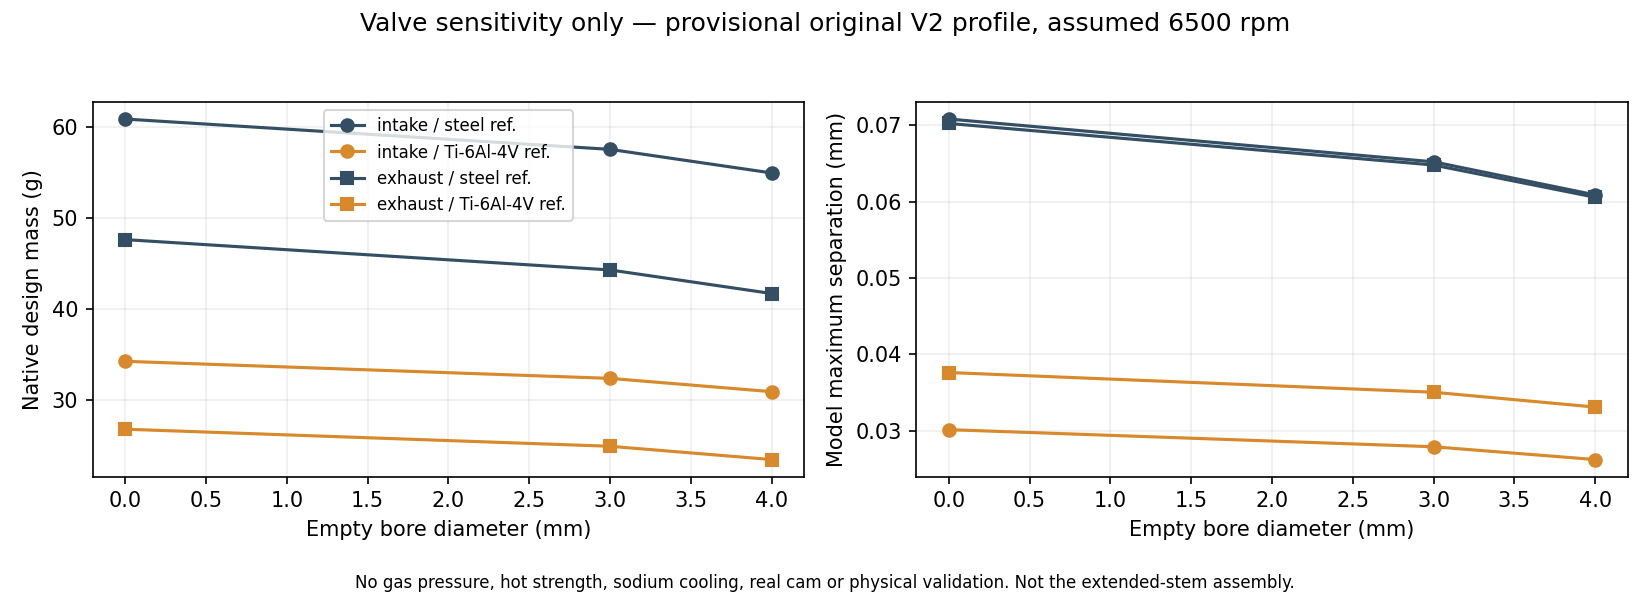
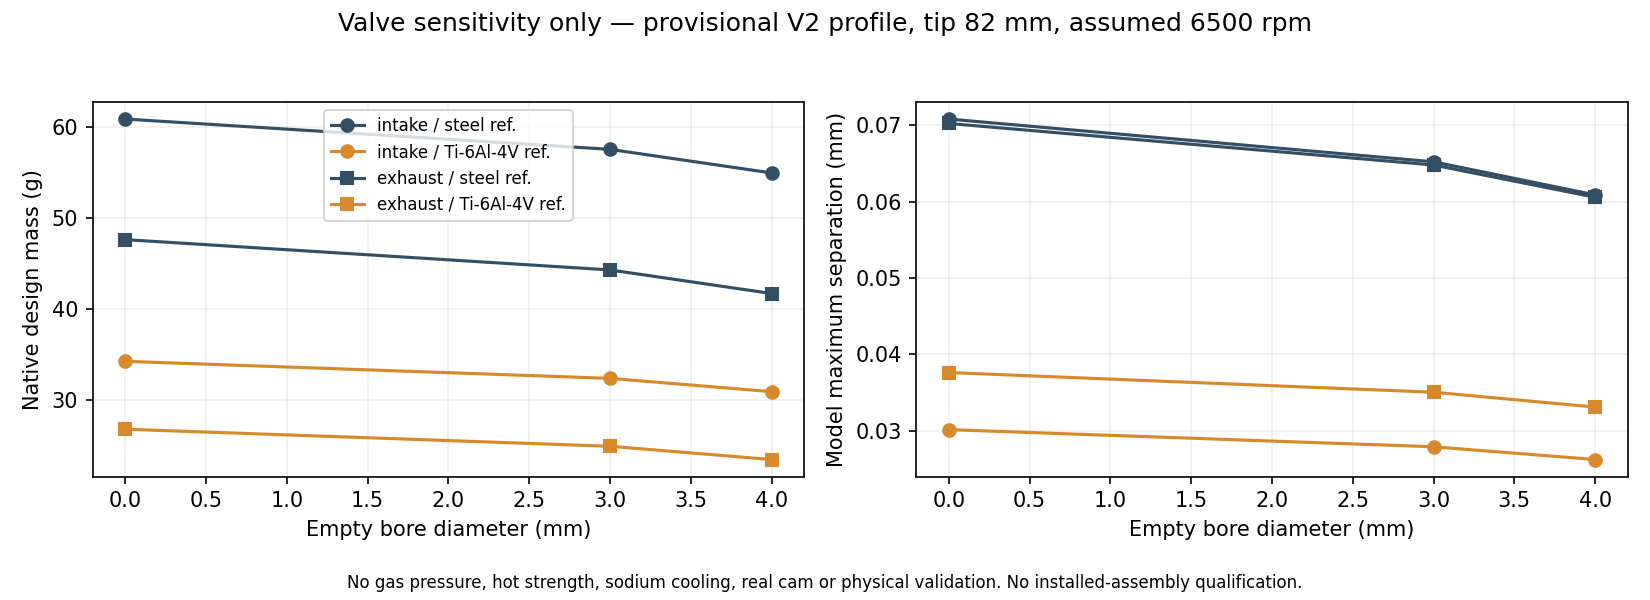
Record interrupted mesh attempt and verified rental closure

Changed region(s): [[0.1855, 0.0, 0.8036, 0.06], [0.2164, 0.96, 0.8036, 0.99]]

diff --git a/docs/reports/M64_PHYSICS_AM_CONTINUATION_20260928.md b/docs/reports/M64_PHYSICS_AM_CONTINUATION_20260928.md
@@ -40,6 +40,22 @@ envelope **0.005 provisional units**, target edge 3, AMIPS stop 8, 80 passes,
 coincidence checks; a polygon envelope is not continuous native-CAD conformity
 or certified physical millimetres.
 
+**Actual outcome: interrupted, no final mesh recovered.** The last observed
+iteration was pass 18, about 40 minutes after starting the mesher. These
+intermediate counts/energies are not exported-mesh quality results. The
+pre-armed budget guard then reported `inventory_read_failed` and destroyed
+instance `53156456`, with `verified_absent=true`. Independent inventory reads
+returned an empty list; the SSH process exited 255 on connection reset.
+
+This is an infrastructure interruption, **not** a demonstrated convergence
+failure or success of the tighter envelope. The temporary remote iteration
+state and full remote log were not recovered before destruction. Local
+source/input bundles, prior completed meshes, original CAD and all local
+thermal/valve results remain intact. No replacement rental is launched by
+this continuation. A repeat needs result/checkpoint retrieval coordinated
+with cleanup; weakening the spending guard or silently repeating this same
+uncheckpointed attempt is not the next engineering step.
+
 ## Valve comparison: original and extended profiles, 24 cases
 
 The [comparison script](../../twins/m64-cylinder-head/source/valvetrain/screen_valve_variants.py)
@@ -270,6 +286,7 @@ aggregate figures and fingerprints are published.
[7 lines of base64/hex data omitted]
@@ -294,7 +311,26 @@ during solving, bounded memory/CPU/time, and only their case directory writable.
 `blockMesh` and `checkMesh -allTopology -allGeometry` precede `additiveFoam`.
 Build and calculation logs are retained separately from failed attempts.
 
+The bounded Vast attempt used 72 effective CPU cores, approximately 258 GB
+advertised RAM and an RTX 2080 Ti; the mesher is CPU work, not a claimed GPU
+simulation. Advertised rate was **$0.354074/h**, reserved disk 100 GB, hard
+budget $2.50 with a three-hour guard. The credit readback changed from
+**$35.775680 to $35.504361**, approximately **$0.2713 observed debit**; this is
+an account snapshot difference, not an itemized invoice. No recharge was
+requested. The instance is verified absent and the guard has exited. The
+five local task containers are also removed after their logs and states
+were retained; source, binaries and computed fields remain on local disk.
+
+Rental manifest SHA-256:
[1 lines of base64/hex data omitted]
+Local container state capture SHA-256:
[1 lines of base64/hex data omitted]
+
 Repository verification: `make check` passes, including **3,183 tests,
 147 explicitly skipped**, native container checks and zero broken Markdown
 links. The four new targeted tests also pass in the actual local numerical
 environment. This verifies software behavior, not physical qualification.
+The original-profile study was rerun with the final extended-capable producer;
+all numerical case results exactly match run 03. Both original and extended
+studies are now reproducible from source SHA-256
[1 lines of base64/hex data omitted]
